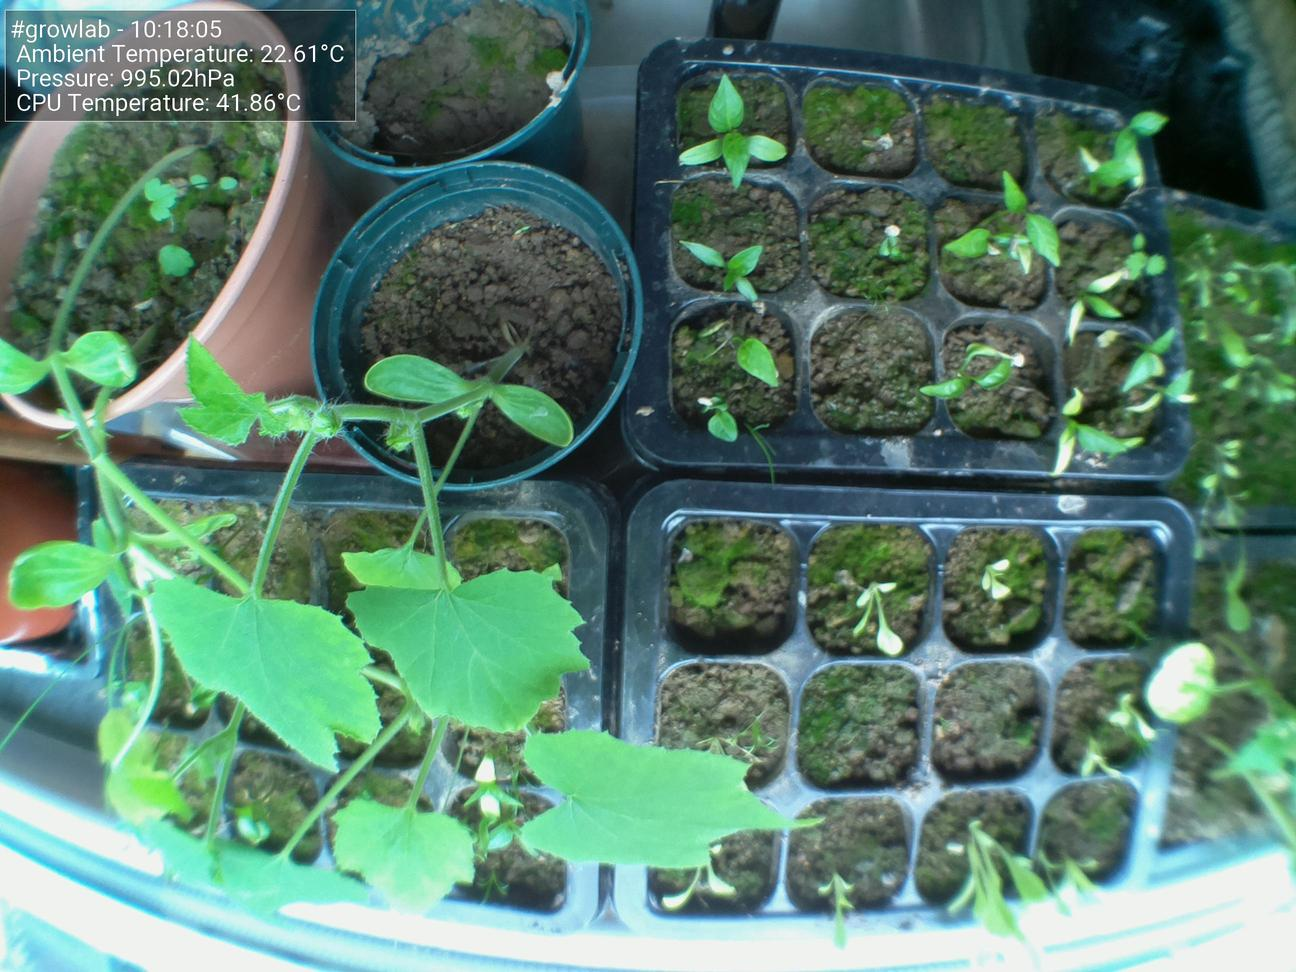
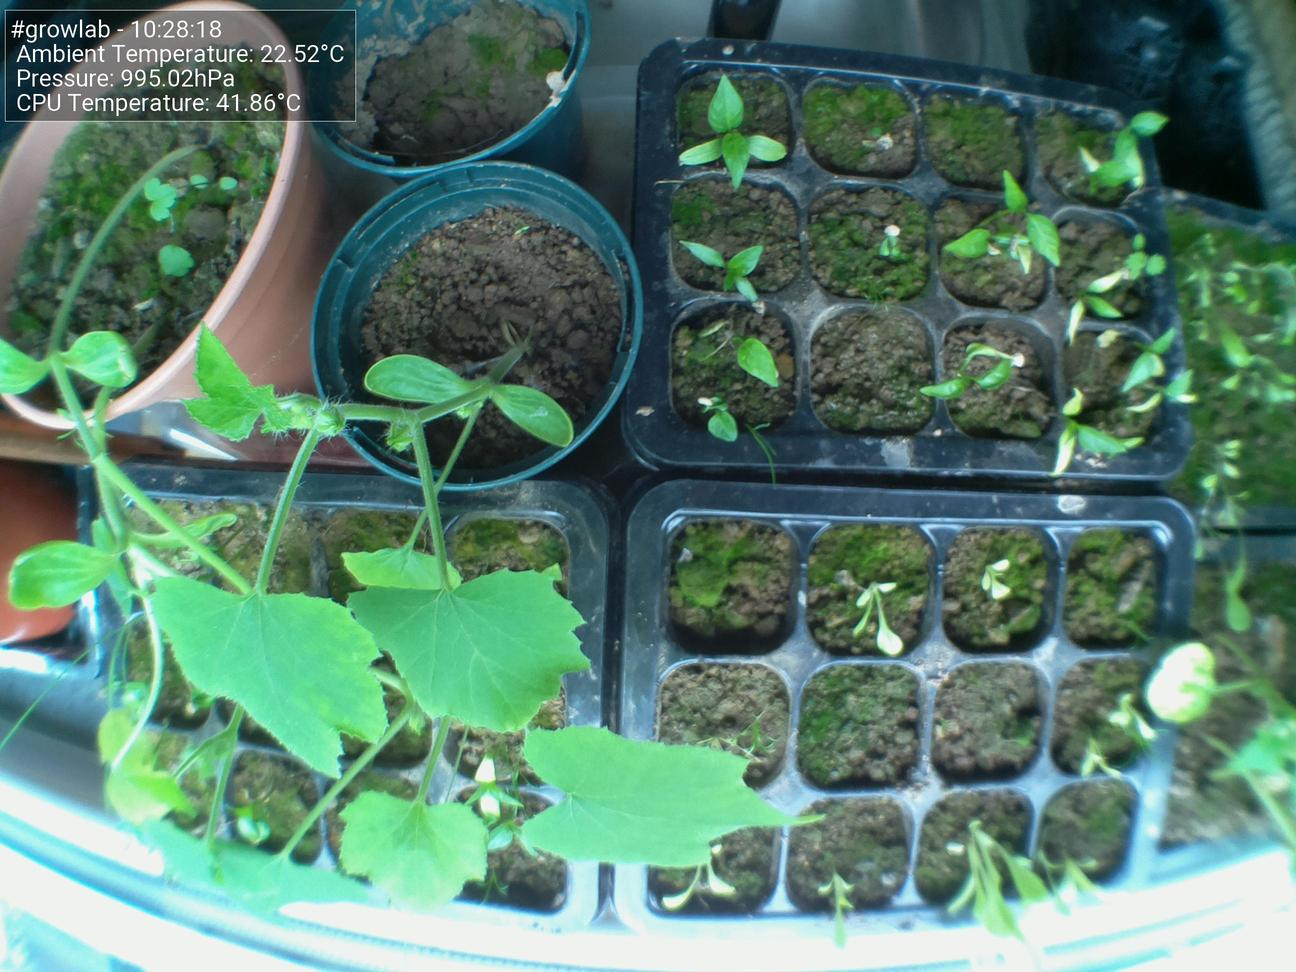
Update images at Mon 23 May 10:28:24 BST 2022

diff --git a/docs/index.html b/docs/index.html
@@ -44,7 +44,7 @@
                         <tbody>
                             <tr>
                                 <td>Time</td>
-                                <td>10:18:05</td>
+                                <td>10:28:18</td>
                             </tr>
                             <tr>
                                 <td>CPU Temp</td>
@@ -52,7 +52,7 @@
                             </tr>
                             <tr>
                                 <td>Ambient Temperature</td>
-                                <td>22.61°C</td>
+                                <td>22.52°C</td>
                             </tr>
                             <tr>
                                 <td>Humidity</td>
@@ -68,7 +68,7 @@
 
                 <h5>Latest image</h5>
                 <div style="width: 85%;">
-                            <img class="figure-img img-fluid rounded" src="./preview.jpg?uid=1653297491.0038369">
+                            <img class="figure-img img-fluid rounded" src="./preview.jpg?uid=1653298103.8970718">
                 </div>
             </div>
         </div>
